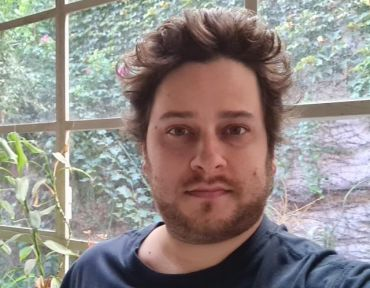
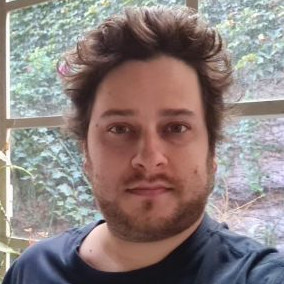
improved image

diff --git a/index.html b/index.html
@@ -51,7 +51,7 @@
         <p>Lugar de trabajo: Instituto de Matemática Alberto Santaló (IMAS), UBA-CONICET</p>
     </div>
     <div class="col-sm-2">
-        <img src="img/martin.jpg" width=200 height=auto style="border-radius: 100px;">
+        <img src="img/martin.jpg" width=200 height=auto style="border-radius: 50%;">
     </div>
     </div>
 </div>   
